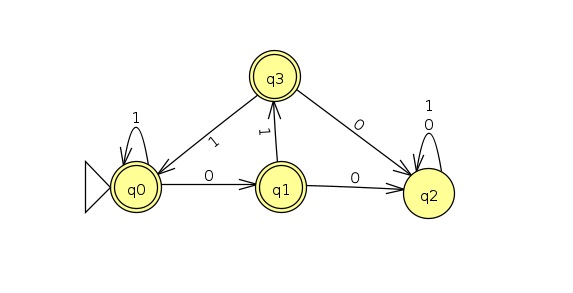
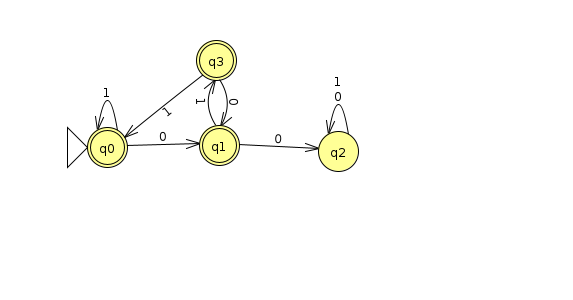
caught a couple errors and continuing on

Changed region(s): [[0.1187, 0.1229, 0.801, 0.7679], [0.2967, 0.3072, 0.3264, 0.3379]]

diff --git a/README.md b/README.md
@@ -47,13 +47,17 @@
 |---|---|---|
 |*q0| q1| q0|   
 |*q1| q2| q1|   
-|q2| q2| q2|   
+|q2| q2| q2|
+
+    equivalent to a1dfa2, a1dfa4
+
 
 ![1dfa1 image](./images/a1dfa1.png)
 
 
 
--------
+---
+
 ### 2.    a1dfa2.jff = { w | neither 00 nor 000 is a substring of w }
     (Q,Σ,delta,start,final)
 
@@ -76,7 +80,8 @@
 
 ![a1dfa2 image](./images/a1dfa2.png)
 
--------
+---
+
 ### 3.    a1dfa3.jff = { w | neither 00 nor 010 is a substring of w }
     (Q,Σ,delta,start,final)
 
@@ -84,7 +89,7 @@
     Σ = {0, 1}
     Delta
     start = { q0 }
-    accept = { q0, q2, q3}
+    accept = { q0, q1}
 
 ###### Delta
 |Present State   | Next state for input 0   | Next state for input 1 |
@@ -96,7 +101,8 @@
 
 ![a1dfa3 image](./images/a1dfa3.png)
 
--------
+---
+
 ### 4.    a1dfa4.jff = { w | neither 00 nor 0100 is a substring of w }
     (Q,Σ,delta,start,final)
 
@@ -104,7 +110,7 @@
     Σ = {0, 1}
     Delta
     start = { q0 }
-    accept = { q0, q2, q3}
+    accept = { q0, q1, q3}
 
 
 ###### Delta
@@ -116,23 +122,29 @@
 |q3| q1| q0|
 
 ![a1dfa4 image](./images/a1dfa4.png)
--------
+
+---
+
 ### 5.    a1dfa5.jff = { w | neither 000 nor 001 is a substring of w }
     (Q,Σ,delta,start,final)
 
-
-    q1 no longer an accept state
-    Q = { q0, q1, q2 }
+    Q = { q0, q1, q2, q3 }
     Σ = {0, 1}
+    Delta
     start = { q0 }
-    accept = { q0 }
+    accept = { q0, q1, q2}
 
 ###### Delta
 |Present State   | Next state for input 0   | Next state for input 1 |
 |---|---|---|
 |*q0| q1| q0|   
-|q1| q2| q1|   
-|q2| q2| q2|
+|q1| q2| q0|   
+|q2| q2| q2|   
+|q3| q3| q3|
+
+![a1dfa5 image](./images/a1dfa5.png)
+
+---
 
  ## A5. Define a right-linear grammar that generates:
 
